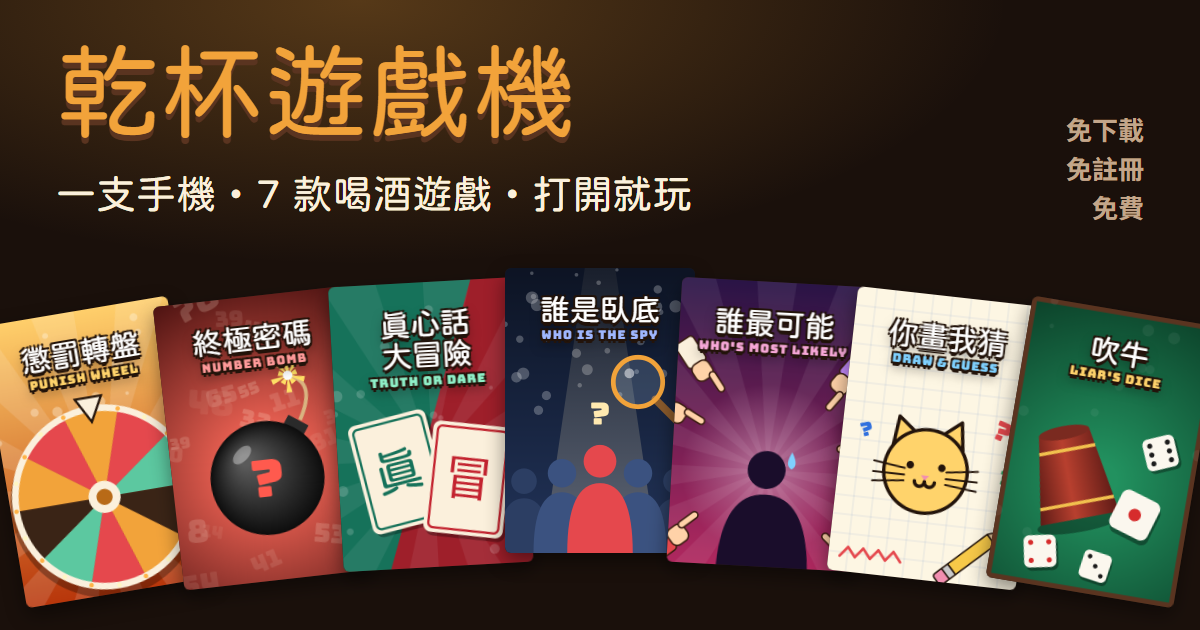
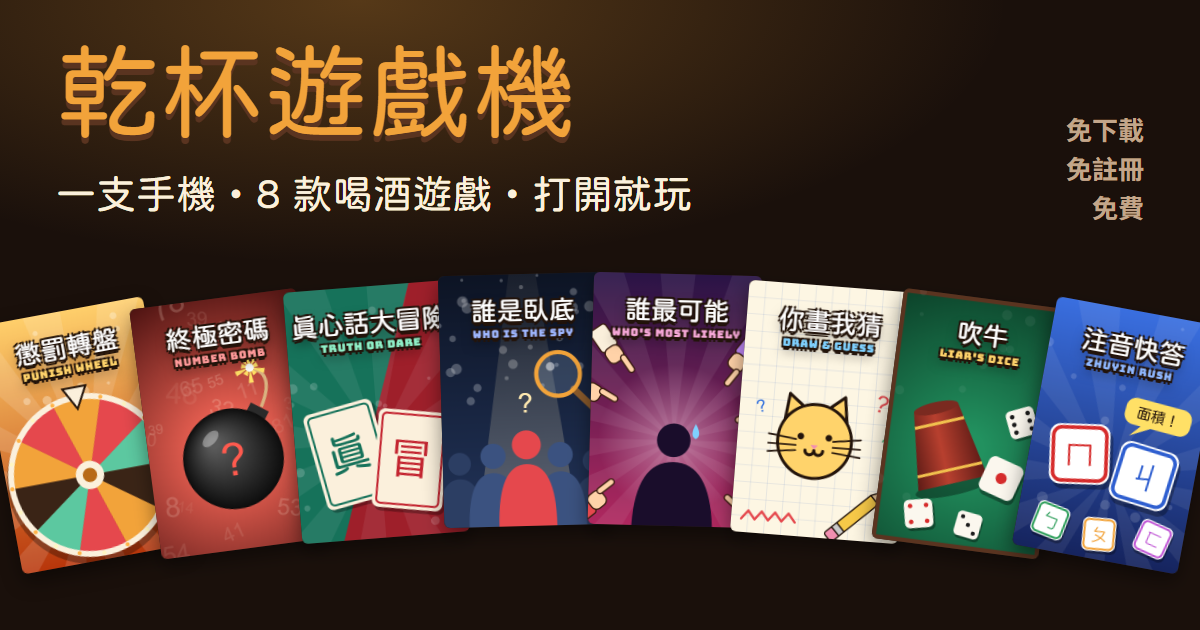
新增遊戲：注音快答（559 組注音開頭）；你畫我猜取消計時，猜到換下一位；預覽圖更新為 8 款

diff --git a/index.html b/index.html
@@ -7,7 +7,7 @@
 <meta name="description" content="懲罰轉盤、誰是臥底、你畫我猜、吹牛、500+ 題誰最可能…一支手機傳著玩，免下載免註冊，聚會喝酒馬上開局。">
 <meta property="og:type" content="website">
 <meta property="og:site_name" content="乾杯遊戲機">
-<meta property="og:title" content="乾杯遊戲機｜7 款手機喝酒遊戲，打開就能玩">
+<meta property="og:title" content="乾杯遊戲機｜8 款手機喝酒遊戲，打開就能玩">
 <meta property="og:description" content="懲罰轉盤、誰是臥底、你畫我猜、吹牛、500+ 題誰最可能…一支手機傳著玩，免下載免註冊，聚會喝酒馬上開局。">
 <meta property="og:url" content="https://yoyoman-1.github.io/kanpai/">
 <meta property="og:image" content="https://yoyoman-1.github.io/kanpai/og.png">
@@ -250,6 +250,16 @@ textarea { resize: vertical; line-height: 1.5; }
 .tally div { background: var(--surface); border: 1px solid var(--line); border-radius: 10px; padding: 6px 2px; font-size: .8rem; color: var(--muted); }
 .tally b { display: block; font-family: var(--num); font-weight: 400; font-size: 1.4rem; color: var(--foam); }
 .rules { margin: 0; padding-left: 1.3em; display: flex; flex-direction: column; gap: 6px; line-height: 1.55; }
+
+/* Zhuyin rush */
+.zy-card { background: var(--foam); border-radius: 24px; padding: 28px 12px; display: flex; justify-content: center; gap: 16px; }
+.zy-card span {
+  display: grid; place-items: center; width: clamp(110px, 34vw, 150px); aspect-ratio: 1; max-width: 100%;
+  font-family: var(--display); font-size: clamp(4.6rem, 22vw, 6.6rem); line-height: 1;
+  border: 5px solid var(--c); color: var(--c); border-radius: 22px; background: #fff;
+}
+.zy-card span:nth-child(1) { --c: #d62c2c; }
+.zy-card span:nth-child(2) { --c: #2f5fd0; }
 
 /* Welcome */
 .need { background: var(--surface); border: 1px solid var(--line); border-radius: 14px; padding: 12px 16px; }
@@ -1156,7 +1166,7 @@ TD_DEFAULT.r18 = { name: '限制級', truth: lines(`
 打給最近聯絡的異性說「你在幹嘛」
 `) };
 registerGame({
-  id: 'td', name: '真心話大冒險', en: 'TRUTH OR DARE', color: '#8ff0c8', tag: '告白 · 爆料', desc: '分微醺、普通、失控三級', minPlayers: 2,
+  id: 'td', name: '真心話大冒險', en: 'TRUTH OR DARE', color: '#8ff0c8', tag: '告白 · 爆料', desc: '五種尺度，從微醺到限制級', minPlayers: 2,
   art(ctx, w, h) {
     ctx.fillStyle = '#9e1f2a'; ctx.fillRect(0, 0, w, h);
     ctx.beginPath(); ctx.moveTo(0, 0); ctx.lineTo(w * 0.75, 0); ctx.lineTo(w * 0.25, h); ctx.lineTo(0, h); ctx.closePath(); ctx.fillStyle = '#16725a'; ctx.fill();
@@ -2158,7 +2168,7 @@ const DRAW_WORDS = {
   hard: '對牛彈琴 畫蛇添足 井底之蛙 守株待兔 狐假虎威 一石二鳥 亡羊補牢 雞飛狗跳 如魚得水 馬到成功 虎頭蛇尾 望梅止渴 掩耳盜鈴 刻舟求劍 三心二意 七上八下 入木三分 水深火熱 火上加油 雪中送炭 錦上添花 過河拆橋 大海撈針 騎虎難下 鐵杵磨成針 愚公移山 杯弓蛇影 打草驚蛇 半途而廢 人山人海 天方夜譚 金蟬脫殼 一刀兩斷 手忙腳亂 左右為難 目瞪口呆 口是心非 心花怒放 無中生有 失戀 宿醉 失眠 嫉妒 尷尬 社恐 已讀不回 劈腿 暗戀 單身 加班 週一症候群 中年危機 減肥失敗 月光族 網路斷線 鬼壓床 斷片 前任 曖昧 領薪水 選舉 地球暖化 時差 夢遊 鐵達尼號 侏羅紀公園 哈利波特 航海王 名偵探柯南 七龍珠 鬼滅之刃 蠟筆小新 哆啦A夢 海綿寶寶 神隱少女 冰雪奇緣 玩具總動員 復仇者聯盟 星際大戰 魷魚遊戲 灌籃高手 寶可夢 超級瑪利歐 俄羅斯方塊 憤怒鳥 龍貓 小王子 西遊記 三國演義 白雪公主 小美人魚 灰姑娘 睡美人 小紅帽 龜兔賽跑 三隻小豬 傑克與魔豆 小木偶 醜小鴨'.split(' ')
 };
 registerGame({
-  id: 'draw', name: '你畫我猜', en: 'DRAW & GUESS', color: '#7fd1ff', tag: '手繪 · 搞笑', ribbon: 'NEW', desc: '一人畫、大家猜，時間到沒人猜中畫的人喝', minPlayers: 3,
+  id: 'draw', name: '你畫我猜', en: 'DRAW & GUESS', color: '#7fd1ff', tag: '手繪 · 搞笑', ribbon: 'NEW', desc: '一人畫、大家猜，猜到就換下一位', minPlayers: 3,
   art(ctx, w, h) {
     ctx.fillStyle = '#fdf6e3'; ctx.fillRect(0, 0, w, h);
     ctx.strokeStyle = 'rgba(80,120,200,.18)'; ctx.lineWidth = Math.max(1, w * 0.004);
@@ -2210,11 +2220,9 @@ registerGame({
       stop();
       box.innerHTML = `
         <div class="seg" role="group" aria-label="難度">${Object.entries(DRAW_LEVELS).map(([k, v]) => `<button data-lv="${k}" aria-pressed="${k === level}">${v} ${DRAW_WORDS[k].length}</button>`).join('')}</div>
-        <div class="seg" role="group" aria-label="每回合秒數">${[60, 90, 120].map(s => `<button data-s="${s}" aria-pressed="${s === secs}">${s} 秒</button>`).join('')}</div>
-        <div class="result" style="font-size:1.1rem">有人猜中 → 猜中的人指定一人喝<small>時間到沒人猜中 → 畫的人喝兩口。畫的人不能寫字、不能說話、不能比手畫腳！</small></div>
+        <div class="result" style="font-size:1.1rem">猜中的人指定一人喝<small>大家都猜不到、畫的人放棄 → 畫的人喝兩口。畫的人不能寫字、不能說話、不能比手畫腳！</small></div>
         <button class="btn big" id="d-go">開始（${esc(current())} 先畫）</button>`;
       box.querySelectorAll('[data-lv]').forEach(b => b.onclick = () => { level = b.dataset.lv; store.set('drawLevel', level); setup(); });
-      box.querySelectorAll('[data-s]').forEach(b => b.onclick = () => { secs = +b.dataset.s; store.set('drawSecs', secs); setup(); });
       $('#d-go', box).onclick = cover;
     }
     function cover() {
@@ -2226,7 +2234,7 @@ registerGame({
           <span class="hint">把手機交給 ${esc(drawer)}，其他人不要偷看</span>
           <button class="btn big" id="d-see">看題目</button>
         </div>
-        <button class="btn ghost" id="d-setup">調整難度和秒數</button>`;
+        <button class="btn ghost" id="d-setup">調整難度</button>`;
       $('#d-see', box).onclick = choose;
       $('#d-setup', box).onclick = setup;
     }
@@ -2242,11 +2250,10 @@ registerGame({
     }
     function draw() {
       strokes = []; keepAwake();
-      let color = COLORS[0], sizeIdx = 1, erasing = false, cur = null, last = -1;
-      const end = Date.now() + secs * 1000;
+      let color = COLORS[0], sizeIdx = 1, erasing = false, cur = null;
       box.innerHTML = `
         <div class="draw-top">
-          <span class="timer" id="d-time">${secs}</span>
+          <span class="hint">${esc(drawer)} 畫，大家猜</span>
           <button class="btn ghost" id="d-peek">按住看題目</button>
         </div>
         <canvas class="draw-canvas" id="d-cv" aria-label="畫布"></canvas>
@@ -2257,8 +2264,8 @@ registerGame({
           <button class="tool" id="d-undo">復原</button>
           <button class="tool" id="d-clear">清空</button>
         </div>
-        <div class="row"><button class="btn ghost" id="d-fail">放棄</button><button class="btn mint" id="d-ok">有人猜對了！</button></div>`;
-      const cv = $('#d-cv', box), ctx = cv.getContext('2d'), t = $('#d-time', box), peek = $('#d-peek', box);
+        <div class="row"><button class="btn ghost" id="d-fail">放棄</button><button class="btn mint" id="d-ok">猜對了！換下一位</button></div>`;
+      const cv = $('#d-cv', box), ctx = cv.getContext('2d'), peek = $('#d-peek', box);
       const W = () => cv.width;
       function paint(s, from) {
         const w = W();
@@ -2296,26 +2303,16 @@ registerGame({
       $('#d-fail', box).onclick = () => fail(cv.toDataURL(), false);
       onResize = fit; window.addEventListener('resize', onResize);
       fit();
-      timer = setInterval(() => {
-        const left = Math.max(0, Math.ceil((end - Date.now()) / 1000));
-        if (left !== last) { last = left; t.textContent = left; t.classList.toggle('hurry', left <= 10); if (left <= 10 && left > 0) beep(880, 0.05); }
-        if (left <= 0) fail(cv.toDataURL(), true);
-      }, 200);
     }
     function success(img) {
       stop();
-      box.innerHTML = `
-        <p class="hint" style="text-align:center">誰猜對了？</p>
-        <div class="plist">${players.filter(p => p !== drawer).map(p => `<button data-p="${esc(p)}">${esc(p)}</button>`).join('')}</div>`;
-      box.querySelectorAll('[data-p]').forEach(b => b.onclick = () => {
-        [523, 659, 784].forEach((f, k) => setTimeout(() => beep(f, 0.18, 'triangle', 0.08), k * 130)); buzz([80, 60, 120]);
-        result(`${esc(b.dataset.p)} 猜對了！<small>答案是「${esc(word)}」・${esc(b.dataset.p)} 指定一人喝一口</small>`, img);
-      });
+      [523, 659, 784].forEach((f, k) => setTimeout(() => beep(f, 0.18, 'triangle', 0.08), k * 130)); buzz([80, 60, 120]);
+      result(`猜對了！<small>答案是「${esc(word)}」・猜中的人指定一人喝一口</small>`, img);
     }
     function fail(img, timeUp) {
       stop();
       [300, 220, 160].forEach((f, k) => setTimeout(() => beep(f, 0.25, 'sawtooth', 0.1), k * 140)); buzz([200, 80, 300]);
-      result(`${timeUp ? '時間到！' : '放棄了！'}${esc(drawer)} 喝兩口<small>答案是「${esc(word)}」</small>`, img);
+      result(`放棄了！${esc(drawer)} 喝兩口<small>答案是「${esc(word)}」</small>`, img);
     }
     function result(html, img) {
       box.innerHTML = `
@@ -2420,6 +2417,59 @@ registerGame({
     };
     render();
     return () => window.removeEventListener('devicemotion', onMotion);
+  }
+});
+
+/* ---------- 8. 注音快答 ---------- */
+// 由常用二字詞反推的注音開頭組合（每組至少 4 個常見詞），共 559 組
+const ZY_KEYS = 'ㄅㄅ ㄅㄆ ㄅㄇ ㄅㄈ ㄅㄉ ㄅㄊ ㄅㄋ ㄅㄌ ㄅㄍ ㄅㄎ ㄅㄏ ㄅㄐ ㄅㄑ ㄅㄒ ㄅㄓ ㄅㄔ ㄅㄕ ㄅㄖ ㄅㄗ ㄅㄘ ㄅㄙ ㄅㄧ ㄅㄨ ㄅㄩ ㄆㄅ ㄆㄆ ㄆㄇ ㄆㄈ ㄆㄉ ㄆㄊ ㄆㄋ ㄆㄌ ㄆㄍ ㄆㄎ ㄆㄏ ㄆㄐ ㄆㄑ ㄆㄒ ㄆㄓ ㄆㄔ ㄆㄕ ㄆㄖ ㄆㄗ ㄆㄙ ㄆㄧ ㄆㄨ ㄆㄩ ㄇㄅ ㄇㄆ ㄇㄇ ㄇㄈ ㄇㄉ ㄇㄊ ㄇㄋ ㄇㄌ ㄇㄍ ㄇㄎ ㄇㄏ ㄇㄐ ㄇㄑ ㄇㄒ ㄇㄓ ㄇㄔ ㄇㄕ ㄇㄖ ㄇㄗ ㄇㄘ ㄇㄙ ㄇㄧ ㄇㄨ ㄇㄩ ㄈㄅ ㄈㄆ ㄈㄇ ㄈㄈ ㄈㄉ ㄈㄊ ㄈㄋ ㄈㄌ ㄈㄍ ㄈㄎ ㄈㄏ ㄈㄐ ㄈㄑ ㄈㄒ ㄈㄓ ㄈㄔ ㄈㄕ ㄈㄖ ㄈㄗ ㄈㄘ ㄈㄙ ㄈㄧ ㄈㄨ ㄈㄩ ㄉㄅ ㄉㄆ ㄉㄇ ㄉㄈ ㄉㄉ ㄉㄊ ㄉㄋ ㄉㄌ ㄉㄍ ㄉㄎ ㄉㄏ ㄉㄐ ㄉㄑ ㄉㄒ ㄉㄓ ㄉㄔ ㄉㄕ ㄉㄖ ㄉㄗ ㄉㄘ ㄉㄙ ㄉㄧ ㄉㄨ ㄉㄩ ㄊㄅ ㄊㄆ ㄊㄇ ㄊㄈ ㄊㄉ ㄊㄊ ㄊㄋ ㄊㄌ ㄊㄍ ㄊㄎ ㄊㄏ ㄊㄐ ㄊㄑ ㄊㄒ ㄊㄓ ㄊㄔ ㄊㄕ ㄊㄖ ㄊㄗ ㄊㄘ ㄊㄙ ㄊㄧ ㄊㄨ ㄊㄩ ㄋㄅ ㄋㄆ ㄋㄇ ㄋㄈ ㄋㄉ ㄋㄊ ㄋㄋ ㄋㄌ ㄋㄍ ㄋㄎ ㄋㄏ ㄋㄐ ㄋㄑ ㄋㄒ ㄋㄓ ㄋㄔ ㄋㄕ ㄋㄖ ㄋㄗ ㄋㄘ ㄋㄧ ㄋㄨ ㄋㄩ ㄌㄅ ㄌㄆ ㄌㄇ ㄌㄈ ㄌㄉ ㄌㄊ ㄌㄋ ㄌㄌ ㄌㄍ ㄌㄎ ㄌㄏ ㄌㄐ ㄌㄑ ㄌㄒ ㄌㄓ ㄌㄔ ㄌㄕ ㄌㄖ ㄌㄗ ㄌㄘ ㄌㄙ ㄌㄧ ㄌㄨ ㄌㄩ ㄍㄅ ㄍㄆ ㄍㄇ ㄍㄈ ㄍㄉ ㄍㄊ ㄍㄋ ㄍㄌ ㄍㄍ ㄍㄎ ㄍㄏ ㄍㄐ ㄍㄑ ㄍㄒ ㄍㄓ ㄍㄔ ㄍㄕ ㄍㄖ ㄍㄗ ㄍㄘ ㄍㄙ ㄍㄧ ㄍㄨ ㄍㄩ ㄎㄅ ㄎㄇ ㄎㄈ ㄎㄉ ㄎㄊ ㄎㄋ ㄎㄌ ㄎㄍ ㄎㄎ ㄎㄏ ㄎㄐ ㄎㄑ ㄎㄒ ㄎㄓ ㄎㄔ ㄎㄕ ㄎㄖ ㄎㄗ ㄎㄘ ㄎㄙ ㄎㄧ ㄎㄨ ㄎㄩ ㄏㄅ ㄏㄆ ㄏㄇ ㄏㄈ ㄏㄉ ㄏㄊ ㄏㄋ ㄏㄌ ㄏㄍ ㄏㄎ ㄏㄏ ㄏㄐ ㄏㄑ ㄏㄒ ㄏㄓ ㄏㄔ ㄏㄕ ㄏㄖ ㄏㄗ ㄏㄘ ㄏㄙ ㄏㄧ ㄏㄨ ㄏㄩ ㄐㄅ ㄐㄆ ㄐㄇ ㄐㄈ ㄐㄉ ㄐㄊ ㄐㄋ ㄐㄌ ㄐㄍ ㄐㄎ ㄐㄏ ㄐㄐ ㄐㄑ ㄐㄒ ㄐㄓ ㄐㄔ ㄐㄕ ㄐㄖ ㄐㄗ ㄐㄘ ㄐㄙ ㄐㄧ ㄐㄨ ㄐㄩ ㄑㄅ ㄑㄆ ㄑㄇ ㄑㄈ ㄑㄉ ㄑㄊ ㄑㄋ ㄑㄌ ㄑㄍ ㄑㄎ ㄑㄏ ㄑㄐ ㄑㄑ ㄑㄒ ㄑㄓ ㄑㄔ ㄑㄕ ㄑㄖ ㄑㄗ ㄑㄘ ㄑㄙ ㄑㄧ ㄑㄨ ㄑㄩ ㄒㄅ ㄒㄆ ㄒㄇ ㄒㄈ ㄒㄉ ㄒㄊ ㄒㄋ ㄒㄌ ㄒㄍ ㄒㄎ ㄒㄏ ㄒㄐ ㄒㄑ ㄒㄒ ㄒㄓ ㄒㄔ ㄒㄕ ㄒㄖ ㄒㄗ ㄒㄘ ㄒㄙ ㄒㄧ ㄒㄨ ㄒㄩ ㄓㄅ ㄓㄆ ㄓㄇ ㄓㄈ ㄓㄉ ㄓㄊ ㄓㄋ ㄓㄌ ㄓㄍ ㄓㄎ ㄓㄏ ㄓㄐ ㄓㄑ ㄓㄒ ㄓㄓ ㄓㄔ ㄓㄕ ㄓㄖ ㄓㄗ ㄓㄘ ㄓㄙ ㄓㄧ ㄓㄨ ㄓㄩ ㄔㄅ ㄔㄆ ㄔㄇ ㄔㄈ ㄔㄉ ㄔㄊ ㄔㄋ ㄔㄌ ㄔㄍ ㄔㄎ ㄔㄏ ㄔㄐ ㄔㄑ ㄔㄒ ㄔㄓ ㄔㄔ ㄔㄕ ㄔㄖ ㄔㄗ ㄔㄘ ㄔㄙ ㄔㄧ ㄔㄨ ㄔㄩ ㄕㄅ ㄕㄆ ㄕㄇ ㄕㄈ ㄕㄉ ㄕㄊ ㄕㄋ ㄕㄌ ㄕㄍ ㄕㄎ ㄕㄏ ㄕㄐ ㄕㄑ ㄕㄒ ㄕㄓ ㄕㄔ ㄕㄕ ㄕㄖ ㄕㄗ ㄕㄘ ㄕㄙ ㄕㄧ ㄕㄨ ㄕㄩ ㄖㄇ ㄖㄉ ㄖㄊ ㄖㄌ ㄖㄍ ㄖㄎ ㄖㄏ ㄖㄐ ㄖㄑ ㄖㄒ ㄖㄓ ㄖㄔ ㄖㄕ ㄖㄖ ㄖㄘ ㄖㄧ ㄖㄨ ㄖㄩ ㄗㄅ ㄗㄇ ㄗㄈ ㄗㄉ ㄗㄊ ㄗㄋ ㄗㄌ ㄗㄍ ㄗㄎ ㄗㄏ ㄗㄐ ㄗㄑ ㄗㄒ ㄗㄓ ㄗㄔ ㄗㄕ ㄗㄖ ㄗㄗ ㄗㄘ ㄗㄙ ㄗㄧ ㄗㄨ ㄗㄩ ㄘㄅ ㄘㄆ ㄘㄇ ㄘㄈ ㄘㄉ ㄘㄊ ㄘㄌ ㄘㄍ ㄘㄎ ㄘㄏ ㄘㄐ ㄘㄑ ㄘㄒ ㄘㄓ ㄘㄔ ㄘㄕ ㄘㄖ ㄘㄗ ㄘㄘ ㄘㄙ ㄘㄧ ㄘㄨ ㄘㄩ ㄙㄅ ㄙㄆ ㄙㄇ ㄙㄈ ㄙㄉ ㄙㄋ ㄙㄌ ㄙㄍ ㄙㄎ ㄙㄏ ㄙㄐ ㄙㄑ ㄙㄒ ㄙㄓ ㄙㄔ ㄙㄕ ㄙㄖ ㄙㄗ ㄙㄙ ㄙㄧ ㄙㄨ ㄧㄅ ㄧㄆ ㄧㄇ ㄧㄈ ㄧㄉ ㄧㄊ ㄧㄌ ㄧㄍ ㄧㄎ ㄧㄏ ㄧㄐ ㄧㄑ ㄧㄒ ㄧㄓ ㄧㄔ ㄧㄕ ㄧㄖ ㄧㄗ ㄧㄘ ㄧㄙ ㄧㄧ ㄧㄨ ㄧㄩ ㄨㄅ ㄨㄆ ㄨㄇ ㄨㄈ ㄨㄉ ㄨㄊ ㄨㄋ ㄨㄌ ㄨㄍ ㄨㄎ ㄨㄏ ㄨㄐ ㄨㄑ ㄨㄒ ㄨㄓ ㄨㄔ ㄨㄕ ㄨㄖ ㄨㄗ ㄨㄘ ㄨㄙ ㄨㄧ ㄨㄨ ㄨㄩ ㄩㄅ ㄩㄇ ㄩㄈ ㄩㄉ ㄩㄊ ㄩㄋ ㄩㄌ ㄩㄍ ㄩㄏ ㄩㄐ ㄩㄑ ㄩㄒ ㄩㄓ ㄩㄔ ㄩㄕ ㄩㄖ ㄩㄗ ㄩㄘ ㄩㄙ ㄩㄧ ㄩㄨ ㄩㄩ'.split(' ');
+registerGame({
+  id: 'zhuyin', name: '注音快答', en: 'ZHUYIN RUSH', color: '#8fb8ff', tag: '搶答 · 反應', ribbon: 'NEW', desc: '看到兩個注音就搶答，ㄇㄐ → 面積、墨鏡', minPlayers: 2,
+  art(ctx, w, h) {
+    const g = ctx.createLinearGradient(0, 0, 0, h); g.addColorStop(0, '#3a6fe0'); g.addColorStop(1, '#16245e');
+    ctx.fillStyle = g; ctx.fillRect(0, 0, w, h);
+    rays(ctx, w / 2, h * 0.66, h, 26, 'rgba(255,255,255,.07)');
+    bubbles(ctx, w, h, 9, 18, 'rgba(255,255,255,.15)');
+    ctx.textAlign = 'center'; ctx.textBaseline = 'middle';
+    const tile = (x, y, s, rot, ch, c) => {
+      ctx.save(); ctx.translate(x, y); ctx.rotate(rot);
+      ctx.fillStyle = 'rgba(0,0,0,.3)'; rr(ctx, -s / 2 + s * 0.05, -s / 2 + s * 0.08, s, s, s * 0.18); ctx.fill();
+      ctx.fillStyle = '#fff'; rr(ctx, -s / 2, -s / 2, s, s, s * 0.18); ctx.fill();
+      ctx.strokeStyle = c; ctx.lineWidth = s * 0.06; rr(ctx, -s / 2 + s * 0.06, -s / 2 + s * 0.06, s * 0.88, s * 0.88, s * 0.14); ctx.stroke();
+      ctx.fillStyle = c; ctx.font = `${Math.round(s * 0.62)}px Huninn, "Noto Sans TC", sans-serif`; ctx.fillText(ch, 0, s * 0.04);
+      ctx.restore();
+    };
+    tile(w * 0.3, h * 0.6, w * 0.36, -0.15, 'ㄇ', '#d62c2c');
+    tile(w * 0.7, h * 0.64, w * 0.36, 0.12, 'ㄐ', '#2f5fd0');
+    tile(w * 0.2, h * 0.88, w * 0.2, 0.2, 'ㄅ', '#2e9e5b');
+    tile(w * 0.5, h * 0.9, w * 0.2, -0.1, 'ㄆ', '#f2a33a');
+    tile(w * 0.82, h * 0.88, w * 0.2, 0.25, 'ㄈ', '#c158d6');
+    ctx.save(); ctx.translate(w * 0.72, h * 0.4); ctx.rotate(0.08);
+    ctx.fillStyle = '#ffe066'; rr(ctx, -w * 0.2, -w * 0.08, w * 0.4, w * 0.16, w * 0.06); ctx.fill();
+    ctx.beginPath(); ctx.moveTo(-w * 0.08, w * 0.07); ctx.lineTo(-w * 0.14, w * 0.15); ctx.lineTo(-w * 0.01, w * 0.07); ctx.fill();
+    ctx.fillStyle = '#23140b'; ctx.font = `${Math.round(w * 0.085)}px Huninn, "Noto Sans TC", sans-serif`; ctx.fillText('面積！', 0, w * 0.005);
+    ctx.restore();
+  },
+  mount(root) {
+    let bag = [], n = 0;
+    root.innerHTML = `
+      <div class="stack">
+        <div class="zy-card" id="z-q" aria-live="polite"></div>
+        <p class="hint" style="text-align:center">看到就搶答，說出這兩個注音開頭的詞</p>
+        <button class="btn big" id="z-next">下一題</button>
+        <p class="hint" style="text-align:center" id="z-n"></p>
+      </div>`;
+    const q = $('#z-q', root);
+    function next() {
+      if (!bag.length) bag = shuffle(ZY_KEYS);
+      const k = bag.pop(); n++;
+      q.innerHTML = [...k].map(c => `<span>${c}</span>`).join('');
+      q.style.animation = 'none'; void q.offsetWidth; q.style.animation = 'pop .35s cubic-bezier(.2,1.6,.4,1)';
+      $('#z-n', root).textContent = `第 ${n} 題・題庫 ${ZY_KEYS.length} 組`;
+      beep(700, 0.08, 'triangle'); buzz(30); keepAwake();
+    }
+    $('#z-next', root).onclick = next;
+    next();
   }
 });
 
